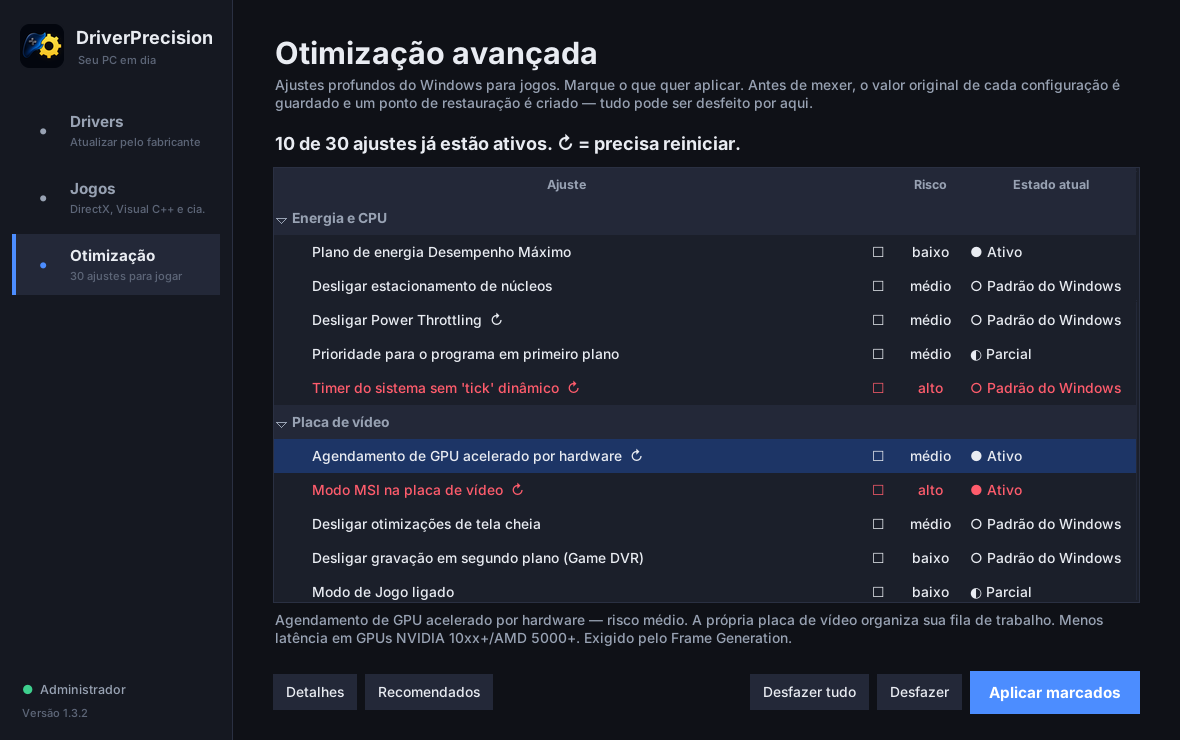
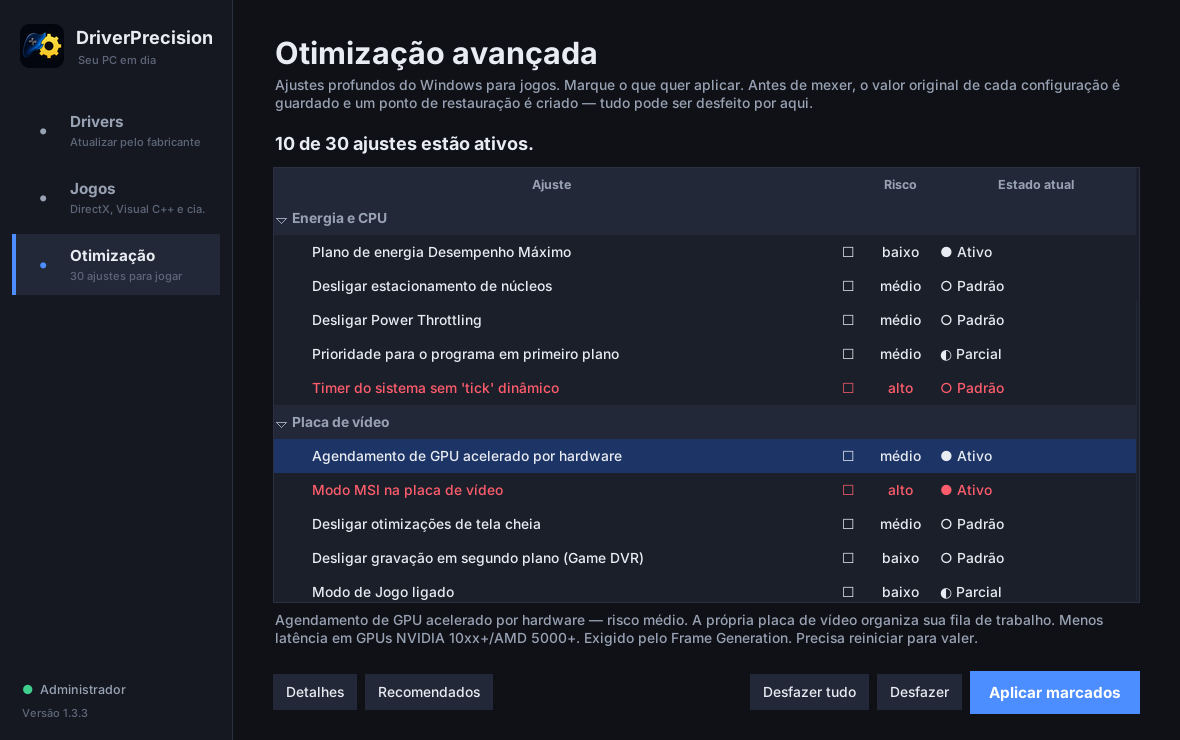
v1.3.3: aviso de reinício só quando há reinício pendente
O ↻ era uma etiqueta fixa nos ajustes que exigem reinício e parecia
um pedido permanente. Agora aparece só nos ajustes alterados depois
da última inicialização do Windows.

diff --git a/driverprecision_abas.py b/driverprecision_abas.py
@@ -227,7 +227,7 @@ class AbaJogos(Aba):
 # =========================================================================== Otimização
 
 COR_RISCO = {"baixo": tema.TEXTO, "médio": tema.TEXTO, "alto": VERMELHO}
-ROT_EST = {"ATIVO": "● Ativo", "PADRÃO": "○ Padrão do Windows", "PARCIAL": "◐ Parcial", "N/A": "— Não se aplica"}
+ROT_EST = {"ATIVO": "● Ativo", "PADRÃO": "○ Padrão", "PARCIAL": "◐ Parcial", "N/A": "— Não se aplica"}
 
 
 class AbaOtimizacao(Aba):
@@ -242,7 +242,7 @@ class AbaOtimizacao(Aba):
         fr.pack(fill="both", expand=True, pady=(4, 0))
         self.tree.heading("#0", text="Ajuste")
         self.tree.column("#0", width=290, minwidth=200, stretch=True)
-        for c, t, w in (("sel", "", 36), ("risco", "Risco", 70), ("estado", "Estado atual", 170)):
+        for c, t, w in (("sel", "", 36), ("risco", "Risco", 70), ("estado", "Estado atual", 200)):
             self.tree.heading(c, text=t)
             self.tree.column(c, width=w, stretch=False, anchor="center" if c != "estado" else "w")
         for r, cor in COR_RISCO.items():
@@ -298,12 +298,16 @@ class AbaOtimizacao(Aba):
         for a in lista:
             if a["cat"] not in cats:
                 cats[a["cat"]] = self.tree.insert("", "end", text=a["cat"], open=True, tags=("cat",))
-            nome = a["nome"] + ("  ⚠ reduz segurança" if a["seguranca"] else "") + ("  ↻" if a["reboot"] else "")
+            nome = a["nome"] + ("  ⚠ reduz segurança" if a["seguranca"] else "")
+            est = ROT_EST.get(a["estado"], a["estado"]) + ("  ↻ reinicie" if a.get("reiniciar") else "")
             self.tree.insert(cats[a["cat"]], "end", iid=a["id"], text=nome,
-                             values=(OFF if a["estado"] != "N/A" else "", a["risco"], ROT_EST.get(a["estado"], a["estado"])),
+                             values=(OFF if a["estado"] != "N/A" else "", a["risco"], est),
                              tags=(a["risco"],))
         n_at = sum(1 for a in lista if a["estado"] == "ATIVO")
-        self.msg.config(text=f"{n_at} de {len(lista)} ajustes já estão ativos. ↻ = precisa reiniciar.", foreground="")
+        n_rb = sum(1 for a in lista if a.get("reiniciar"))
+        self.msg.config(text=f"{n_at} de {len(lista)} ajustes estão ativos." +
+                             (f" {n_rb} só passam a valer quando você reiniciar o PC (↻)." if n_rb else ""),
+                        foreground=LARANJA if n_rb else "")
         self._botoes(True)
 
     def _clique(self, ev) -> None:
@@ -321,7 +325,8 @@ class AbaOtimizacao(Aba):
         s = self.tree.selection()
         if s and s[0] in self.ajustes:
             a = self.ajustes[s[0]]
-            self.desc.config(text=f"{a['nome']} — risco {a['risco']}. {a['desc']}")
+            extra = " Aguardando você reiniciar o PC." if a.get("reiniciar") else (" Precisa reiniciar para valer." if a["reboot"] else "")
+            self.desc.config(text=f"{a['nome']} — risco {a['risco']}. {a['desc']}{extra}")
 
     def recomendados(self) -> None:
         for iid, a in self.ajustes.items():

diff --git a/driverprecision_otimiza.py b/driverprecision_otimiza.py
@@ -15,6 +15,7 @@ from __future__ import annotations
 import json
 import re
 import subprocess
+import time
 import winreg
 
 import driverprecision as dp
@@ -424,6 +425,7 @@ def aplicar(aid: str) -> str:
         msg = f"{len(regs)} valor(es) do registro alterados"
     b[aid] = orig
     _salvar_backup(b)
+    _marca_reinicio(a)
     return msg + (" - reinicie para valer" if a.get("reboot") else "")
 
 
@@ -461,7 +463,49 @@ def desfazer(aid: str) -> str:
         _cmd(["powercfg", "/setactive", "SCHEME_CURRENT"])
     del b[aid]
     _salvar_backup(b)
+    _marca_reinicio(a)
     return "restaurado ao valor original" + (" - reinicie para valer" if a.get("reboot") else "")
+
+
+# --------------------------------------------------------------------------- reinício pendente
+
+def _arq_reinicio():
+    return BACKUP.with_name("otimizacao_reinicio.json")
+
+
+def ligado_desde() -> float:
+    """Momento em que o Windows iniciou de verdade (com a Inicialização rápida, 'Desligar' não conta)."""
+    try:
+        import ctypes
+        f = ctypes.windll.kernel32.GetTickCount64
+        f.restype = ctypes.c_ulonglong
+        return time.time() - f() / 1000
+    except Exception:
+        return 0.0
+
+
+def _marca_reinicio(a: dict) -> None:
+    if not a.get("reboot"):
+        return
+    try:
+        d = json.loads(_arq_reinicio().read_text(encoding="utf-8"))
+    except (OSError, ValueError):
+        d = {}
+    d[a["id"]] = time.time()
+    try:
+        _arq_reinicio().write_text(json.dumps(d), encoding="utf-8")
+    except OSError:
+        pass
+
+
+def aguardando_reinicio() -> set[str]:
+    """Ajustes alterados por este programa depois da última inicialização: só valem ao reiniciar."""
+    try:
+        d = json.loads(_arq_reinicio().read_text(encoding="utf-8"))
+    except (OSError, ValueError):
+        return set()
+    desde = ligado_desde()
+    return {k for k, quando in d.items() if quando > desde}
 
 
 def aplicados() -> list[str]:
@@ -470,6 +514,7 @@ def aplicados() -> list[str]:
 
 def listar() -> list[dict]:
     out = []
+    pend = aguardando_reinicio()
     for a in AJUSTES:
         try:
             st = estado(a)
@@ -477,5 +522,5 @@ def listar() -> list[dict]:
             st = "N/A"
         out.append({"id": a["id"], "nome": a["nome"], "cat": a["cat"], "risco": a["risco"], "estado": st,
                     "desc": a["desc"], "reboot": a.get("reboot", False), "seguranca": a.get("seguranca", False),
-                    "nosso": a["id"] in aplicados()})
+                    "nosso": a["id"] in aplicados(), "reiniciar": a["id"] in pend})
     return out

diff --git a/tests/test_otimiza_jogos.py b/tests/test_otimiza_jogos.py
@@ -121,6 +121,19 @@ class Otimizacao(unittest.TestCase):
         finally:
             ot._cmd = cmd_orig
 
+    def test_aviso_de_reinicio_some_depois_de_reiniciar(self):
+        orig = ot.ligado_desde
+        try:
+            ot.ligado_desde = lambda: 0.0                    # PC ligado "desde sempre"
+            ot.aplicar("throttling")                         # pede reinício
+            ot.aplicar("prio_sep")                           # não pede
+            self.assertEqual(ot.aguardando_reinicio(), {"throttling"})
+            import time
+            ot.ligado_desde = lambda: time.time() + 60       # reiniciou depois de aplicar
+            self.assertEqual(ot.aguardando_reinicio(), set())
+        finally:
+            ot.ligado_desde = orig
+
     def test_texto_sz_volta_ao_original(self):
         k = r"Control Panel\Keyboard"
         ot.REG.set("HKCU", k, "KeyboardDelay", "SZ", "1")

diff --git a/driverprecision.py b/driverprecision.py
@@ -39,7 +39,7 @@ import urllib.request
 import xml.etree.ElementTree as ET
 from pathlib import Path
 
-VERSION = "1.3.2"
+VERSION = "1.3.3"
 UA = "Mozilla/5.0 (Windows NT 10.0; Win64; x64) DriverPrecision/" + VERSION
 BASE = Path(os.environ.get("LOCALAPPDATA", Path.home())) / "DriverPrecision"
 CACHE = BASE / "cache"

diff --git a/CHANGELOG.md b/CHANGELOG.md
@@ -2,6 +2,11 @@
 
 Formato baseado em [Keep a Changelog](https://keepachangelog.com/pt-BR/1.1.0/). Versões seguem [SemVer](https://semver.org/lang/pt-BR/).
 
+## [1.3.3] - 2026-11-16
+
+### Alterado
+- Otimização: o aviso de reinício (↻) deixou de ser uma etiqueta fixa. Agora só aparece nos ajustes aplicados ou desfeitos depois da última inicialização do Windows, e some ao reiniciar.
+
 ## [1.3.2] - 2026-11-16
 
 ### Adicionado
@@ -66,6 +71,7 @@ Versão de correções, depois de testar tudo num Windows de verdade (Windows Se
 - Comandos `baixar` (hash + Authenticode) e `instalar` (admin, confirmação, ponto de restauração; BIOS/firmware nunca automático).
 - `DriverPrecision.exe` gerado pelo GitHub Actions a cada release.
 
+[1.3.3]: https://github.com/joao-eder/driverprecision/releases/tag/v1.3.3
 [1.3.2]: https://github.com/joao-eder/driverprecision/releases/tag/v1.3.2
 [1.3.1]: https://github.com/joao-eder/driverprecision/releases/tag/v1.3.1
 [1.3.0]: https://github.com/joao-eder/driverprecision/releases/tag/v1.3.0
